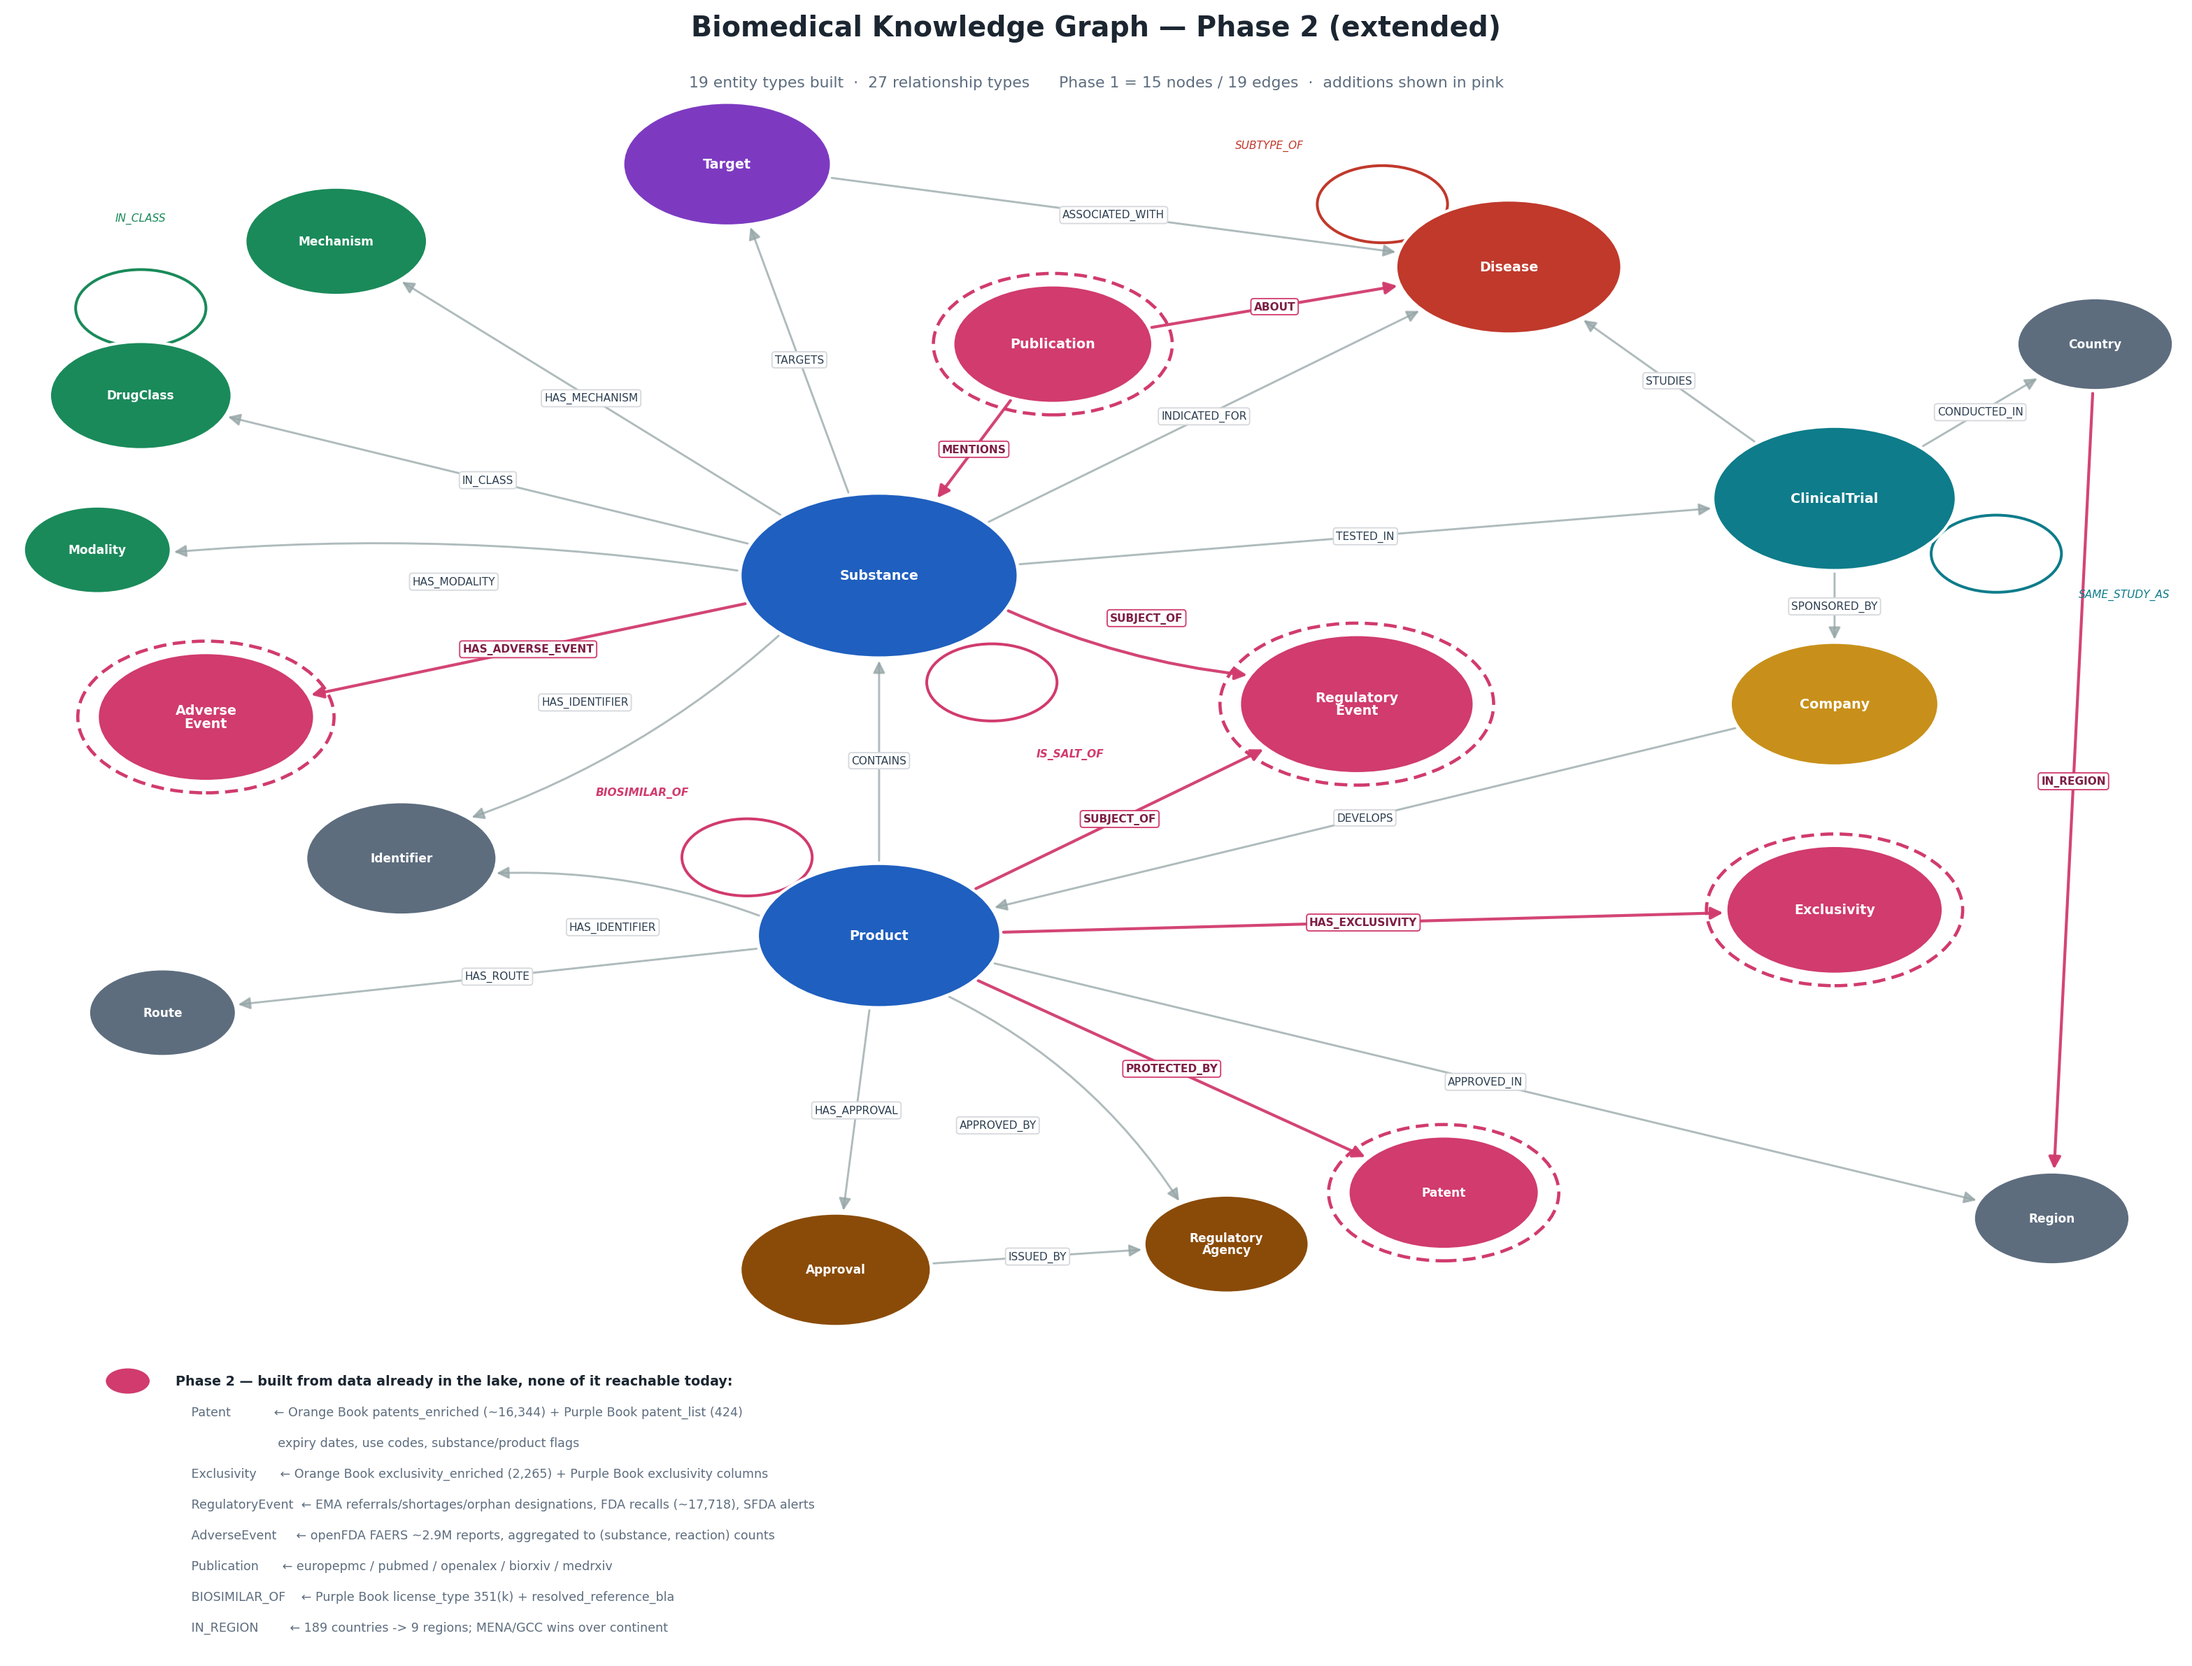
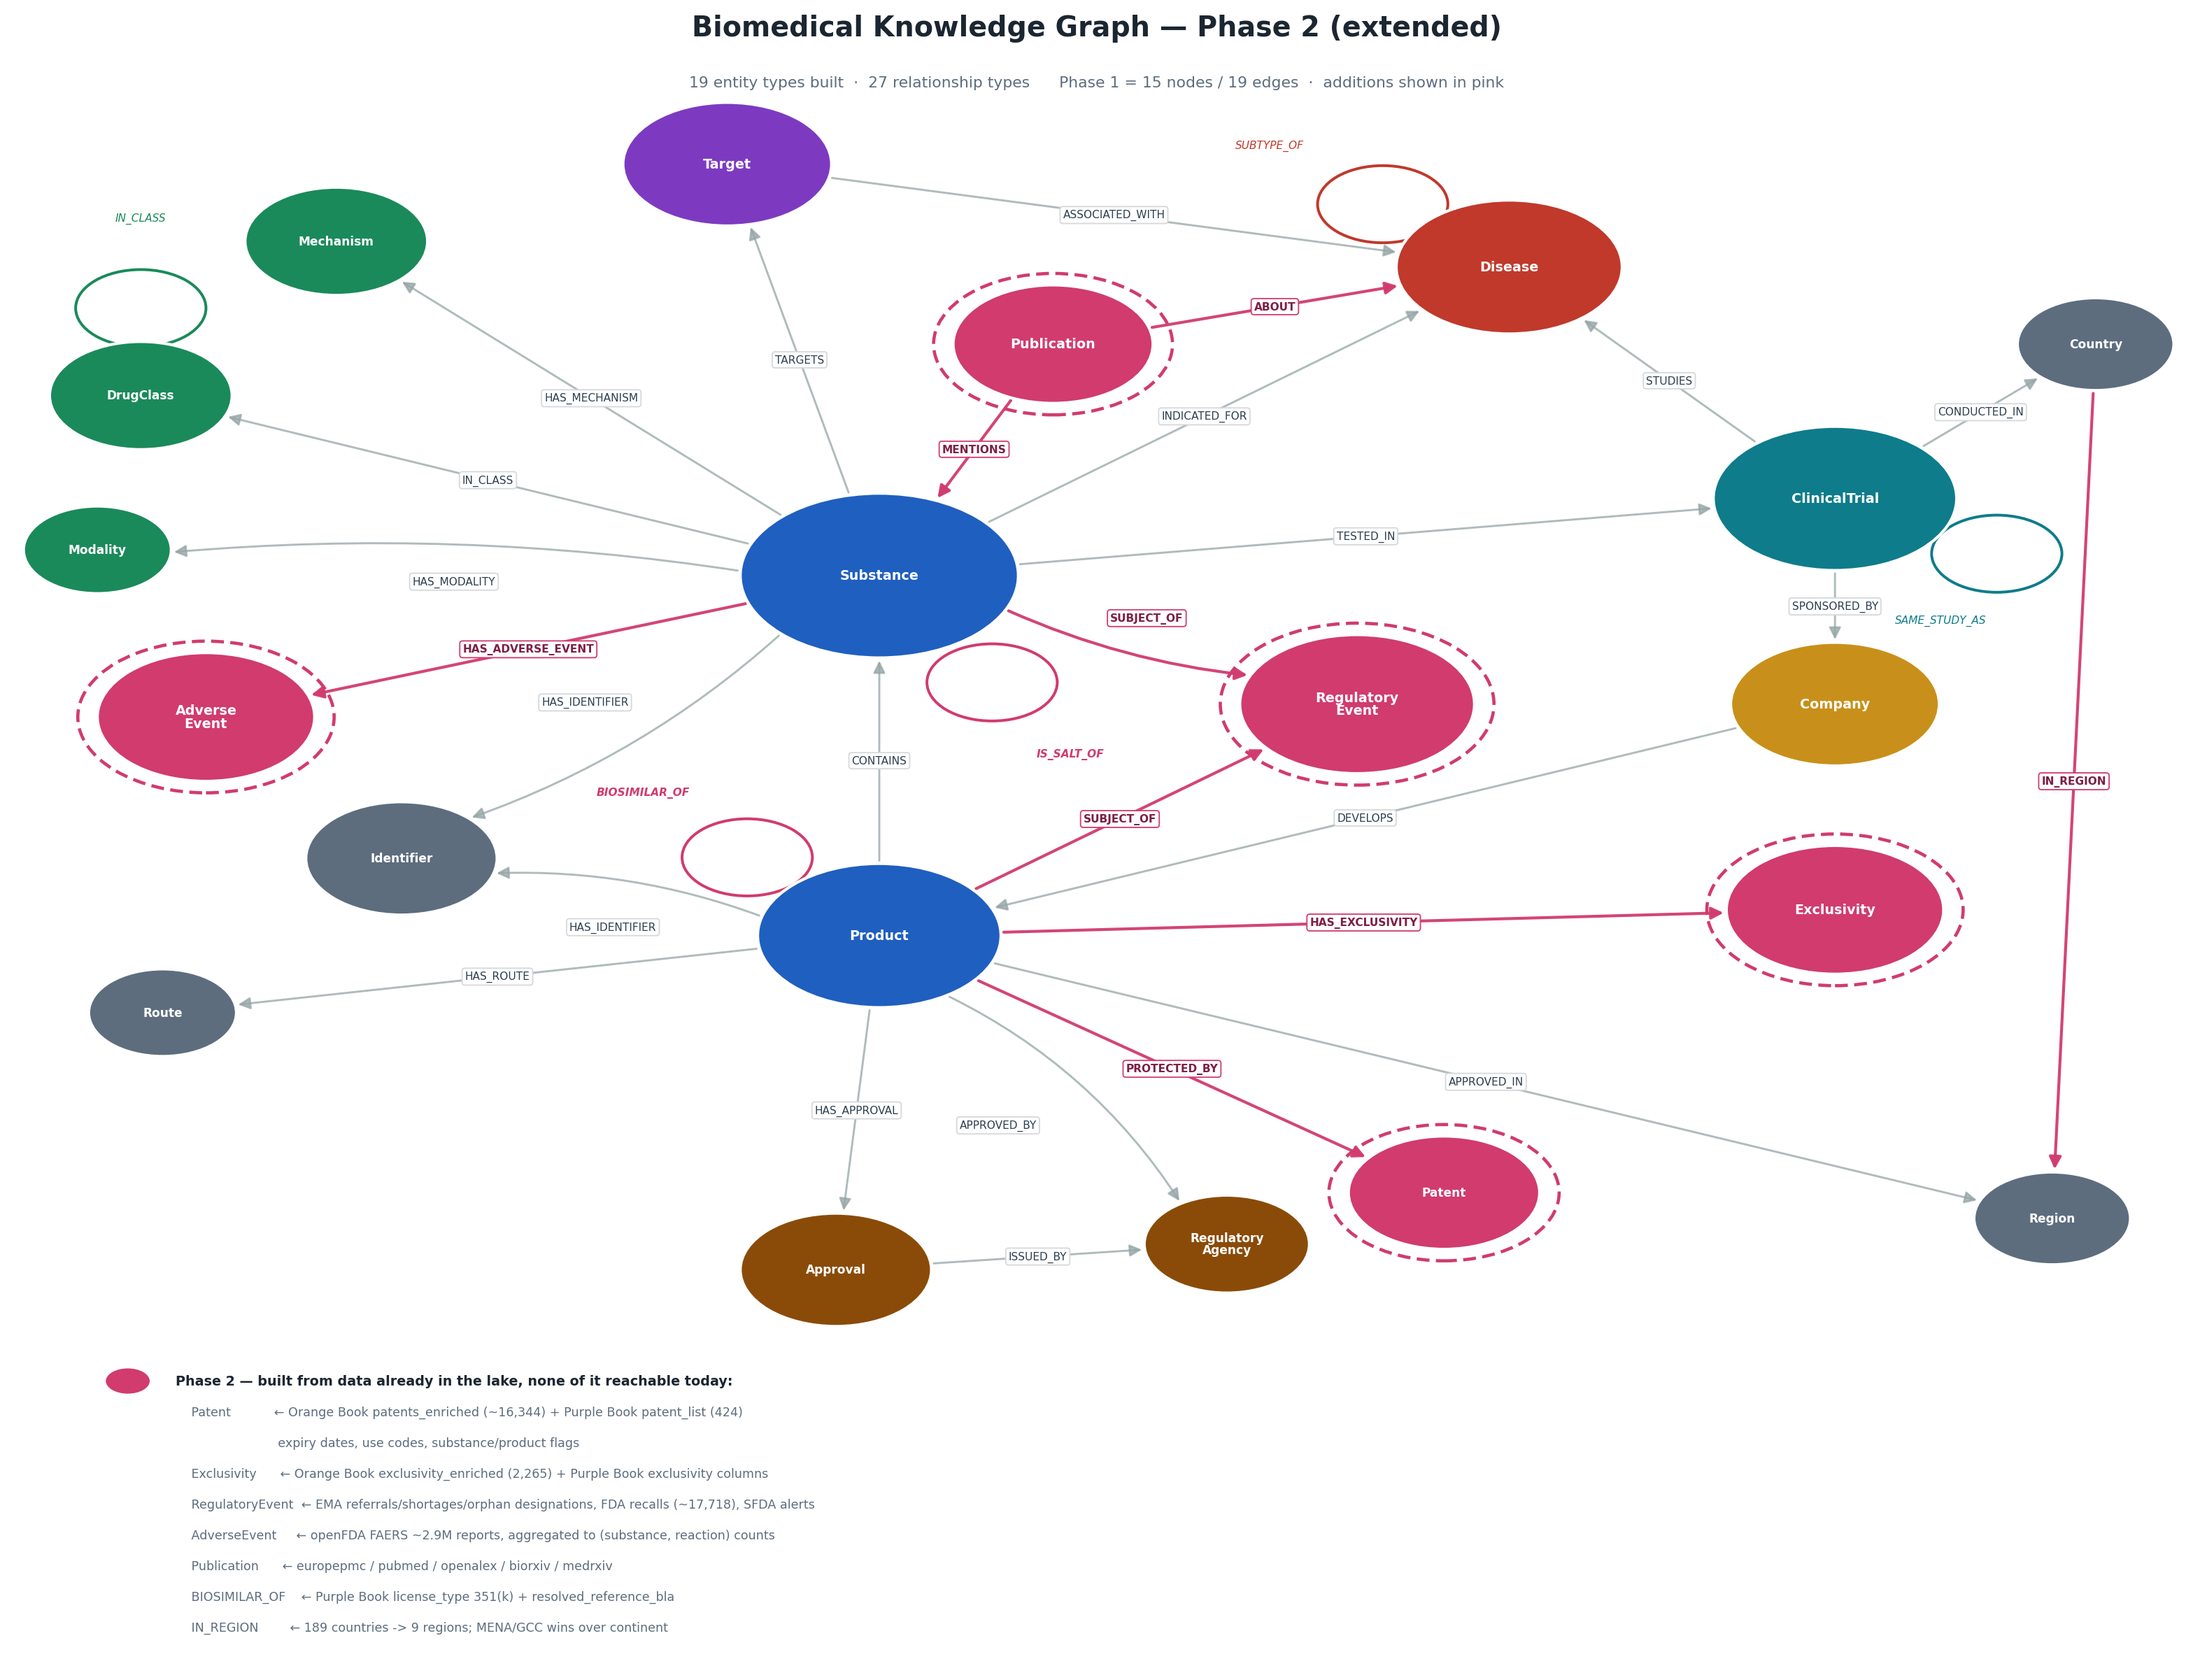
Put SAME_STUDY_AS under its own loop instead of beside the IN_REGION edge
Loop labels sit further along the loop's own angle, which is fine until
something occupies that direction. Moving Region to the bottom right ran
IN_REGION straight down the right column, through where this label was.

The label position is now overridable per loop, as an offset from the loop
centre, rather than being derived from the angle in every case.

Changed region(s): [[0.9285, 0.466, 0.9595, 0.4971]]

diff --git a/graph/make_schema_png.py b/graph/make_schema_png.py
@@ -144,23 +144,31 @@ for a, b, label, curve, is_new in EDGES:
 # eleven neighbours and almost every quadrant is taken.
 #
 # angle, loop radius, and how far out to push the label.
-for key, lbl, col, ang, out in (
+# Last field overrides the label position, as an offset from the loop centre.
+# Placing a label further along the loop's own angle is fine until something
+# else occupies that direction - SAME_STUDY_AS pointed straight into the
+# IN_REGION edge running down the right column, so it goes under its circle
+# instead, shifted left to clear that line.
+for key, lbl, col, ang, out, lab in (
         # Up-left. Straight up puts the label through the subtitle; right is
         # where Region now sits.
-        ("Disease",       "SUBTYPE_OF",    BIO,   140, 2.4),
-        ("Product",       "BIOSIMILAR_OF", NEW,   135, 3.0),
-        ("Substance",     "IS_SALT_OF",    NEW,   -58, 3.4),
-        ("ClinicalTrial", "SAME_STUDY_AS", CLIN,  -30, 3.0),
+        ("Disease",       "SUBTYPE_OF",    BIO,   140, 2.4, None),
+        ("Product",       "BIOSIMILAR_OF", NEW,   135, 3.0, None),
+        ("Substance",     "IS_SALT_OF",    NEW,   -58, 3.4, None),
+        ("ClinicalTrial", "SAME_STUDY_AS", CLIN,  -30, 3.0, (-2.6, -5.4)),
         # Straight up. At 160 deg the loop ran off the left edge of the canvas
         # - DrugClass sits at x=6 and the circle needs 6.8 of clearance.
-        ("DrugClass",     "IN_CLASS",      CLASS, 90,  2.6)):
+        ("DrugClass",     "IN_CLASS",      CLASS, 90,  2.6, None)):
     x, y, r, *_ = NODES[key]
     a = np.radians(ang)
     d = r + out
     cx, cy = x + d * np.cos(a), y + d * np.sin(a)
-    # Past the far side of the loop (radius 3), not just past its centre, or
-    # the label prints on top of the circle it names.
-    tx, ty = x + (d + 6.8) * np.cos(a), y + (d + 6.8) * np.sin(a)
+    if lab:
+        tx, ty = cx + lab[0], cy + lab[1]
+    else:
+        # Past the far side of the loop (radius 3), not just past its centre,
+        # or the label prints on top of the circle it names.
+        tx, ty = x + (d + 6.8) * np.cos(a), y + (d + 6.8) * np.sin(a)
     ax.add_patch(Circle((cx, cy), 3.0, fill=False, ec=col, lw=1.9, zorder=1))
     ax.text(tx, ty, lbl, fontsize=7.4, ha="center", color=col, style="italic",
             fontweight="bold" if col == NEW else "normal")
